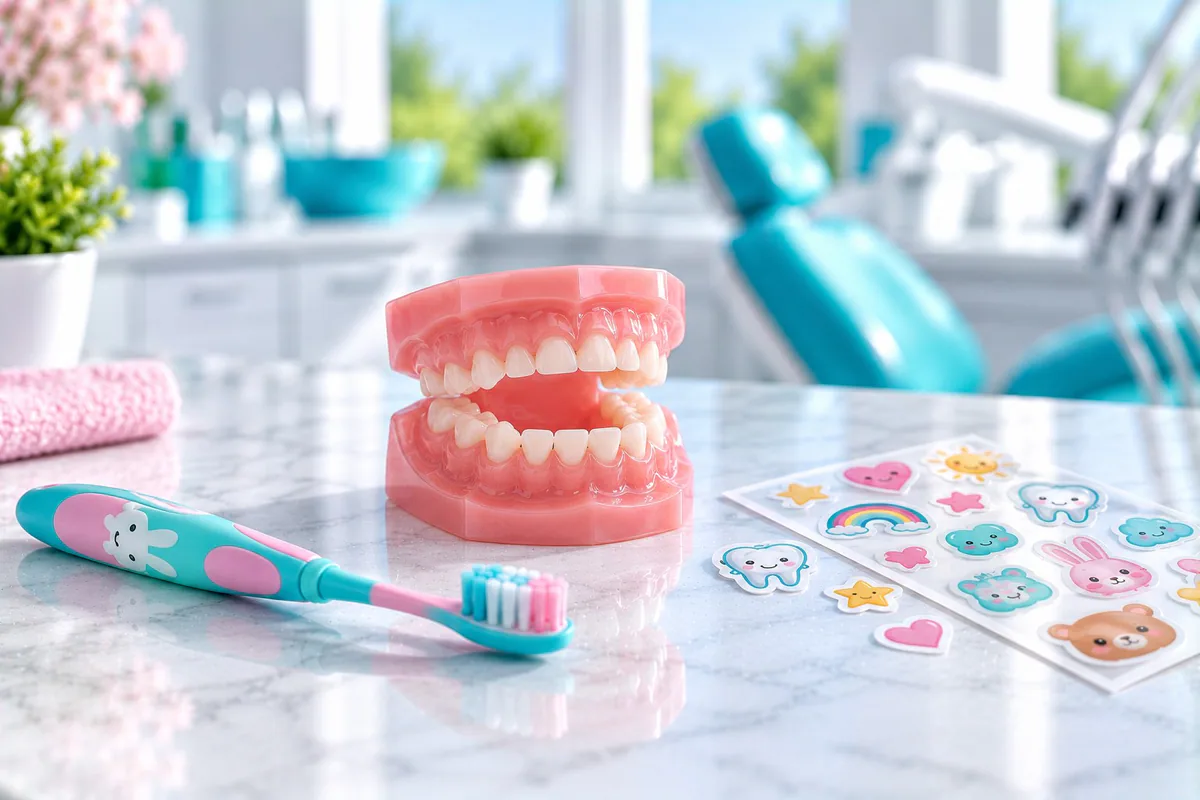
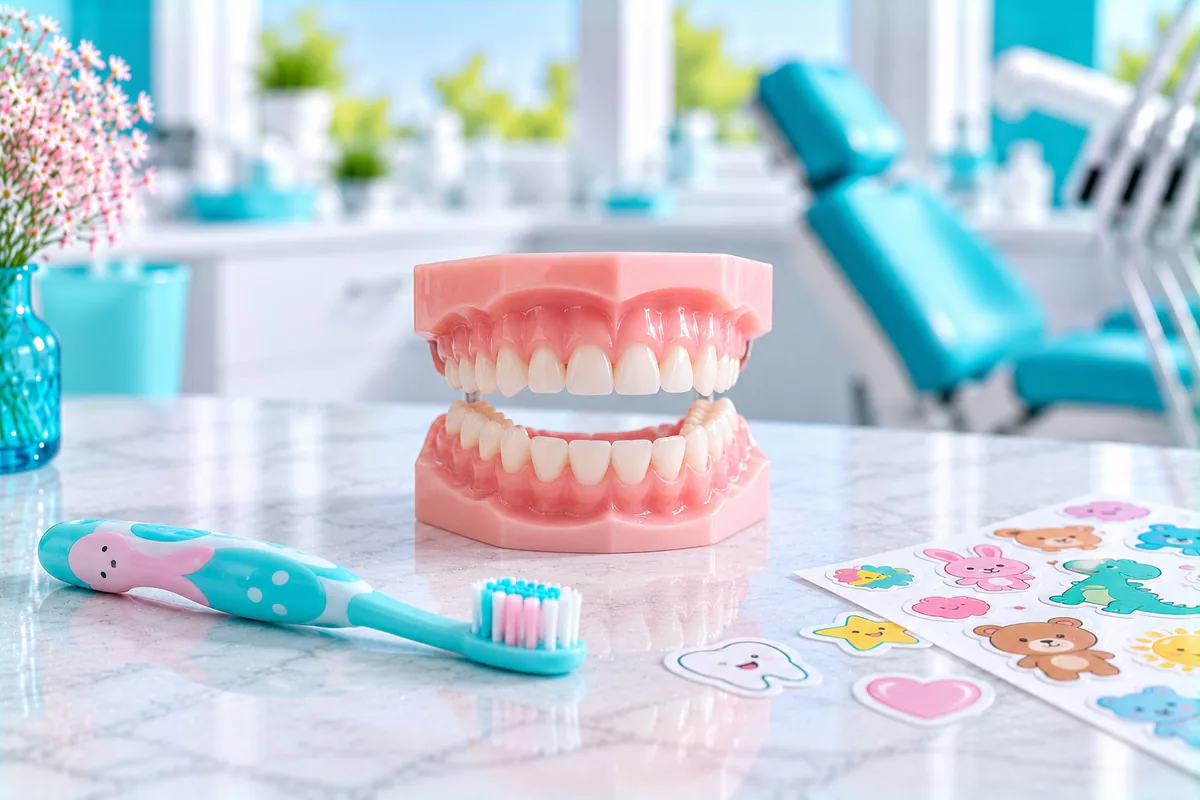
Страницы услуг: все картинки «Виды»

diff --git a/stranicy/diagnostika/kt-pazuh/index.html b/stranicy/diagnostika/kt-pazuh/index.html
@@ -90,7 +90,7 @@ window.umLogo=function(i){var f=i.getAttribute("data-fb");if(f){i.removeAttribut
   <div><div class="tp-acc tp-acc--cards"><details class="tp-acc__i"><summary><span>Синус-лифтинг</span><i><svg viewBox="0 0 24 24" aria-hidden="true"><path d="M12 5v14M5 12h14"/></svg></i></summary><div class="tp-acc__a"><p>Врач планирует, сколько кости нарастить: <a href="../../implantaciya/sinus-lifting/">синус-лифтинг</a>.</p></div></details><details class="tp-acc__i"><summary><span>Имплантация сверху</span><i><svg viewBox="0 0 24 24" aria-hidden="true"><path d="M12 5v14M5 12h14"/></svg></i></summary><div class="tp-acc__a"><p>Высота кости под пазухой для импланта.</p></div></details><details class="tp-acc__i"><summary><span>Удаление верхних зубов</span><i><svg viewBox="0 0 24 24" aria-hidden="true"><path d="M12 5v14M5 12h14"/></svg></i></summary><div class="tp-acc__a"><p>Положение корней относительно пазухи.</p></div></details><details class="tp-acc__i"><summary><span>По назначению врача</span><i><svg viewBox="0 0 24 24" aria-hidden="true"><path d="M12 5v14M5 12h14"/></svg></i></summary><div class="tp-acc__a"><p>Направление на КТ пазух даёт лечащий стоматолог.</p></div></details><details class="tp-acc__i"><summary><span>Насморк и заложенность носа</span><i><svg viewBox="0 0 24 24" aria-hidden="true"><path d="M12 5v14M5 12h14"/></svg></i></summary><div class="tp-acc__a"><p>КТ пазух в клинике делаем для стоматологического лечения. С насморком, заложенностью носа и болью в пазухах обращайтесь к ЛОР-врачу.</p></div></details></div></div>
 </div></section></div></div>
 <div class="tv" id="vidy" data-tv="vidy" data-name="Виды" data-desk="1" data-mob="1"><div class="tv__v tv__v--desk tv__v--mob" data-v="1"><section class="tp-sec tp-sec--mint"><div class="wrap tp-media tp-media--r">
-  <div class="tp-pic tp-pic--sq tp-pic--ph" role="img" aria-label="Срез КТ пазух на экране"></div>
+  <div class="tp-pic tp-pic--sq"><img src="../../images/svc/diagnostika_kt-pazuh/vidy.webp" srcset="../../images/svc/diagnostika_kt-pazuh/vidy-480w.webp 480w, ../../images/svc/diagnostika_kt-pazuh/vidy-828w.webp 828w, ../../images/svc/diagnostika_kt-pazuh/vidy-1200w.webp 1200w, ../../images/svc/diagnostika_kt-pazuh/vidy.webp 1536w" sizes="(max-width: 760px) 100vw, 45vw" alt="Срез КТ пазух на экране" loading="lazy" decoding="async" referrerpolicy="no-referrer" onerror="umImg(this)"></div>
   <div><h2 class="tp-h2">КТ пазух и КТ зубов</h2><p>Снимки отличаются областью, которую видит врач.</p><div class="tp-brow"><div><h3>КТ гайморовых пазух</h3><p>Верхняя челюсть и пазухи: для синус-лифтинга и имплантации на верхней челюсти.</p></div><b>4 500 ₽</b></div><div class="tp-brow"><div><h3>КТ двух челюстей</h3><p>Обе челюсти и зубы. Подробнее: <a href="../../diagnostika/kt/">КТ зубов</a>.</p></div><b>3 800 ₽</b></div></div>
 </div></section></div></div>
 <div class="tv" id="etapy" data-tv="etapy" data-name="Этапы" data-desk="1" data-mob="2"><div class="tv__v tv__v--desk" data-v="1"><section class="tp-sec tp-sec--mint"><div class="wrap"><h2 class="tp-h2 tp-h2--c">Как делают КТ пазух</h2><p class="tp-intro tp-intro--c">Специальная подготовка к КТ пазух не нужна.</p>

diff --git a/stranicy/diagnostika/pricelnyj-snimok/index.html b/stranicy/diagnostika/pricelnyj-snimok/index.html
@@ -90,7 +90,7 @@ window.umLogo=function(i){var f=i.getAttribute("data-fb");if(f){i.removeAttribut
   <div><div class="tp-acc tp-acc--cards"><details class="tp-acc__i"><summary><span>Кариес между зубами</span><i><svg viewBox="0 0 24 24" aria-hidden="true"><path d="M12 5v14M5 12h14"/></svg></i></summary><div class="tp-acc__a"><p>Видно кариес, который не заметен при осмотре: <a href="../../lechenie-zubov/karies/">лечение кариеса</a>.</p></div></details><details class="tp-acc__i"><summary><span>Лечение каналов</span><i><svg viewBox="0 0 24 24" aria-hidden="true"><path d="M12 5v14M5 12h14"/></svg></i></summary><div class="tp-acc__a"><p>Врач проверяет длину каналов и пломбирование: <a href="../../lechenie-zubov/kanaly/">лечение каналов</a>.</p></div></details><details class="tp-acc__i"><summary><span>Перед удалением</span><i><svg viewBox="0 0 24 24" aria-hidden="true"><path d="M12 5v14M5 12h14"/></svg></i></summary><div class="tp-acc__a"><p>Видно форму и длину корней.</p></div></details><details class="tp-acc__i"><summary><span>Контроль</span><i><svg viewBox="0 0 24 24" aria-hidden="true"><path d="M12 5v14M5 12h14"/></svg></i></summary><div class="tp-acc__a"><p>Снимок после лечения показывает, как запломбирован зуб.</p></div></details></div></div>
 </div></section></div></div>
 <div class="tv" id="vidy" data-tv="vidy" data-name="Виды" data-desk="1" data-mob="1"><div class="tv__v tv__v--desk tv__v--mob" data-v="1"><section class="tp-sec tp-sec--mint"><div class="wrap tp-media tp-media--r">
-  <div class="tp-pic tp-pic--sq tp-pic--ph" role="img" aria-label="Прицельный снимок одного зуба на экране"></div>
+  <div class="tp-pic tp-pic--sq"><img src="../../images/svc/diagnostika_pricelnyj-snimok/vidy.webp" srcset="../../images/svc/diagnostika_pricelnyj-snimok/vidy-480w.webp 480w, ../../images/svc/diagnostika_pricelnyj-snimok/vidy-828w.webp 828w, ../../images/svc/diagnostika_pricelnyj-snimok/vidy-1200w.webp 1200w, ../../images/svc/diagnostika_pricelnyj-snimok/vidy.webp 1536w" sizes="(max-width: 760px) 100vw, 45vw" alt="Прицельный снимок одного зуба на экране" loading="lazy" decoding="async" referrerpolicy="no-referrer" onerror="umImg(this)"></div>
   <div><h2 class="tp-h2">Прицельный, панорамный или КТ</h2><p>Прицельный снимок показывает меньше зубов, зато крупно.</p><div class="tp-brow"><div><h3>Прицельный снимок</h3><p>Один-два зуба с корнями крупным планом.</p></div><b>500 ₽</b></div><div class="tp-brow"><div><h3>Панорамный снимок (ОПТГ)</h3><p>Все зубы сразу, для общего плана. Подробнее: <a href="../../diagnostika/ortopantomogramma/">ОПТГ</a>.</p></div><b>1 800 ₽</b></div><div class="tp-brow"><div><h3>КТ двух челюстей</h3><p>Объёмное изображение, если плоского снимка мало. Подробнее: <a href="../../diagnostika/kt/">КТ зубов</a>.</p></div><b>3 800 ₽</b></div></div>
 </div></section></div></div>
 <div class="tv" id="etapy" data-tv="etapy" data-name="Этапы" data-desk="1" data-mob="2"><div class="tv__v tv__v--desk" data-v="1"><section class="tp-sec tp-sec--mint"><div class="wrap"><h2 class="tp-h2 tp-h2--c">Как делают прицельный снимок</h2><p class="tp-intro tp-intro--c">Снимок делают прямо в кабинете, специально готовиться не нужно.</p>

diff --git a/stranicy/hirurgiya/index.html b/stranicy/hirurgiya/index.html
@@ -100,7 +100,7 @@ window.umLogo=function(i){var f=i.getAttribute("data-fb");if(f){i.removeAttribut
   <ol class="tp-ncards tp-stack"><li class="tp-ncard" style="--i:0"><h3>Осмотр и снимок</h3><p>Хирург осматривает зуб и назначает <a href="../diagnostika/pricelnyj-snimok/">прицельный снимок</a>, <a href="../diagnostika/ortopantomogramma/">панорамный снимок</a> или <a href="../diagnostika/kt/">КТ зубов</a>. Снимки делаем в клинике.</p></li><li class="tp-ncard tp-ncard--pink" style="--i:1"><h3>Анестезия</h3><p>Удаление проводят под местной анестезией. Хирург начинает, когда она подействует.</p></li><li class="tp-ncard tp-ncard--mint" style="--i:2"><h3>Удаление</h3><p>Хирург удаляет зуб целиком, а при сложном удалении разделяет его на части и удаляет корни по отдельности.</p></li><li class="tp-ncard" style="--i:3"><h3>Тампон и швы</h3><p>На лунку кладут марлевый тампон, при необходимости хирург накладывает швы.</p></li><li class="tp-ncard tp-ncard--pink" style="--i:4"><h3>Рекомендации</h3><p>Хирург рассказывает, как ухаживать за лункой, и при необходимости назначает контрольный осмотр.</p></li></ol>
 </div></section></div></div>
 <div class="tv" id="vidy2" data-tv="vidy2" data-name="Виды" data-desk="1" data-mob="1"><div class="tv__v tv__v--desk tv__v--mob" data-v="1"><section class="tp-sec"><div class="wrap tp-media">
-  <div class="tp-pic tp-pic--sq tp-pic--ph" role="img" aria-label="Модель челюсти с уздечкой и стерильные инструменты"></div>
+  <div class="tp-pic tp-pic--sq"><img src="../images/svc/hirurgiya/vidy2.webp" srcset="../images/svc/hirurgiya/vidy2-480w.webp 480w, ../images/svc/hirurgiya/vidy2-828w.webp 828w, ../images/svc/hirurgiya/vidy2-1200w.webp 1200w, ../images/svc/hirurgiya/vidy2.webp 1536w" sizes="(max-width: 760px) 100vw, 45vw" alt="Модель челюсти с уздечкой и стерильные инструменты" loading="lazy" decoding="async" referrerpolicy="no-referrer" onerror="umImg(this)"></div>
   <div><h2 class="tp-h2">Другие операции хирурга</h2><p>Кроме удаления зубов, хирурги клиники делают небольшие операции в полости рта.</p><div class="tp-brow"><div><h3>Удаление кисты зуба</h3><p>Цистотомия и цистэктомия, по возможности с сохранением зуба. Подробнее: <a href="../hirurgiya/kista/">удаление кисты</a>.</p></div><b>от 4 000 ₽</b></div><div class="tp-brow"><div><h3>Пластика уздечки</h3><p>Подрезают короткую уздечку языка или губы. Подробнее: <a href="../hirurgiya/plastika-uzdechki/">пластика уздечки</a>.</p></div><b>от 5 900 ₽</b></div><div class="tp-brow"><div><h3>Ортодонтический минивинт</h3><p>Небольшой винт служит опорой во время <a href="../ortodontiya/">ортодонтического лечения</a>.</p></div><b>от 9 000 ₽</b></div></div>
 </div></section></div></div>
 <div class="tv" id="akcent" data-tv="akcent" data-name="Акцент" data-desk="1" data-mob="1"><div class="tv__v tv__v--desk tv__v--mob" data-v="1"><section class="tp-sec tp-sec--pink"><div class="wrap tp-crown3">
